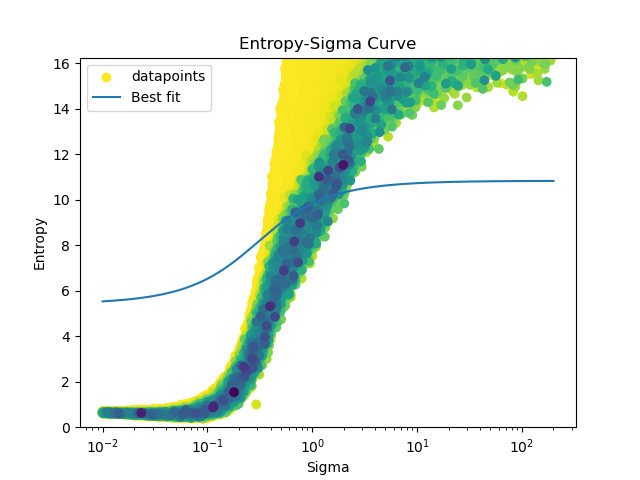
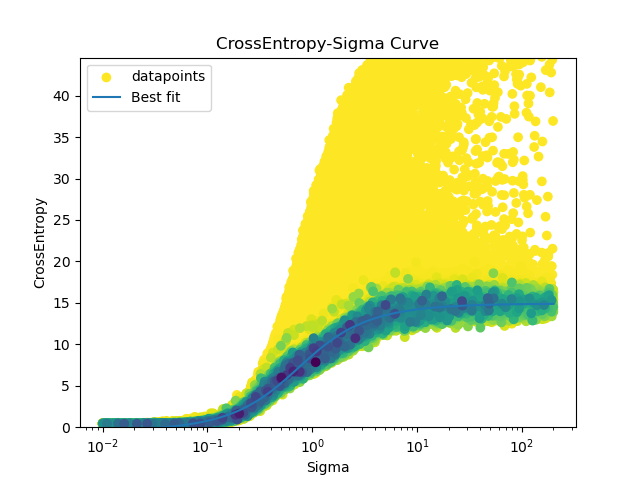
added first part of th readme and requirements to run the code

diff --git a/continous_diffusion/scheduling.py b/continous_diffusion/scheduling.py
@@ -98,9 +98,9 @@ class AdaptiveSchedule(nn.Module):
         s = self.cdf(t, *self.optimal_parameters.detach().cpu().tolist())
 
         plt.plot(t, s, label='Best fit')
-        plt.title('Entropy-Sigma Curve')
+        plt.title('CrossEntropy-Sigma Curve')
         plt.xlabel('Sigma')
-        plt.ylabel('Entropy')
+        plt.ylabel('CrossEntropy')
         plt.xscale('log')
         plt.ylim(0,self.height*1.5)
         # plt.yscale('log')

diff --git a/README.md b/README.md
@@ -1,0 +1,47 @@
+# Mini Continous Diffusion From Categorical Data
+
+This repository aims to reproduce the [Continous Diffusion from Categorical Data paper by Dieleman et al](https://arxiv.org/pdf/2211.15089.pdf).
+
+It is inspired by Karpathy's [nanoGPT](https://github.com/karpathy/nanoGPT) where he was able to generate coherent text with ~100M parameters.
+
+## The Goal
+
+The goal of this repository is to give the simplest possible reproduction of the paper. Here are some choices we made to make things simple
+
+# Some technical decisions
+
+- During the noising process the noise is added to all the tokens
+- The tokenizer used is the BERT tokenizer (~30k vocab size)
+- No self-conditioning
+- We are going to train a ~100M parameter model. With [nanoGPT](https://github.com/karpathy/nanoGPT) it worked, so why not?
+
+### The dataset
+The dataset used is [TinyStories](https://huggingface.co/datasets/roneneldan/TinyStories). It contains synthetically generated short stories by GPT-3.5 and GPT-4 that only use a small vocabulary and it weights ~1Gb.
+
+
+### Scheduling
+In the original paper they use a monotonic [piece-wise linear function](https://en.wikipedia.org/wiki/Piecewise_linear_function) to fit the model prediction entropy $S$ as a function of the time $t$
+
+$$S=F(t)$$
+
+We fit $F(t)$ with a [Cauchy-like](https://en.wikipedia.org/wiki/Cauchy_distribution) cumulative distribution function as we find that it is more flexible and efficient.
+
+
+### Preconditioning
+
+In [Elucidating the Design Space of Diffusion-Based Generative Models](https://arxiv.org/pdf/2206.00364.pdf) by Karras et al. they define the output of the model $D_\theta(\boldsymbol x,\sigma)$ as following (eq. 7 of the paper)
+
+$D_\theta(\boldsymbol x,\sigma)=c_\textrm{skip}(\sigma)\boldsymbol x + c_\textrm{out}(\sigma)F_\theta(c_\textrm{in}(\sigma)\boldsymbol x,c_\textrm{noise}(\sigma))$
+
+Where $F_\theta(\cdot)$ is the the actual Transformer and $c_\textrm{skip},c_\textrm{out},c_\textrm{in},c_\textrm{noise}$ are non-trainable modulation functions
+
+|modulation   |Karras   |CDCD   |ours   |
+|---|---|---|---|
+|$c_\textrm{skip}(\sigma)$   |  $1/ (1+\sigma^2)$| ?  | $\tan(1-\sigma)$  |
+|$c_\textrm{out}(\sigma)$  |  $\sigma/\sqrt{1+\sigma^2}$ | ?  | $\tanh(\sigma)$  |
+|$c_\textrm{in}(\sigma)$   | $1/\sqrt{1+\sigma^2}$  | $ 1/\sqrt{\sigma^2+1}$  |$ 1/\sqrt{\sigma^2+1}$   |
+|$c_\textrm{noise}(\sigma)$   | $\ln(\sigma)/4$  | ?  | 1  |
+> Sources: [Details in section 6.1 of the CDCD paper](https://arxiv.org/pdf/2211.15089.pdf) and [table 1 of Karras paper](https://arxiv.org/pdf/2206.00364.pdf)
+> Note: Any discrepancies with the Karras paper are due to the fact that we have $\sigma_\textrm{data}=1$ because on how we initialize the input embeddings.
+
+We found that choosing the correct modulation function has a big effect on the outcome of the training
